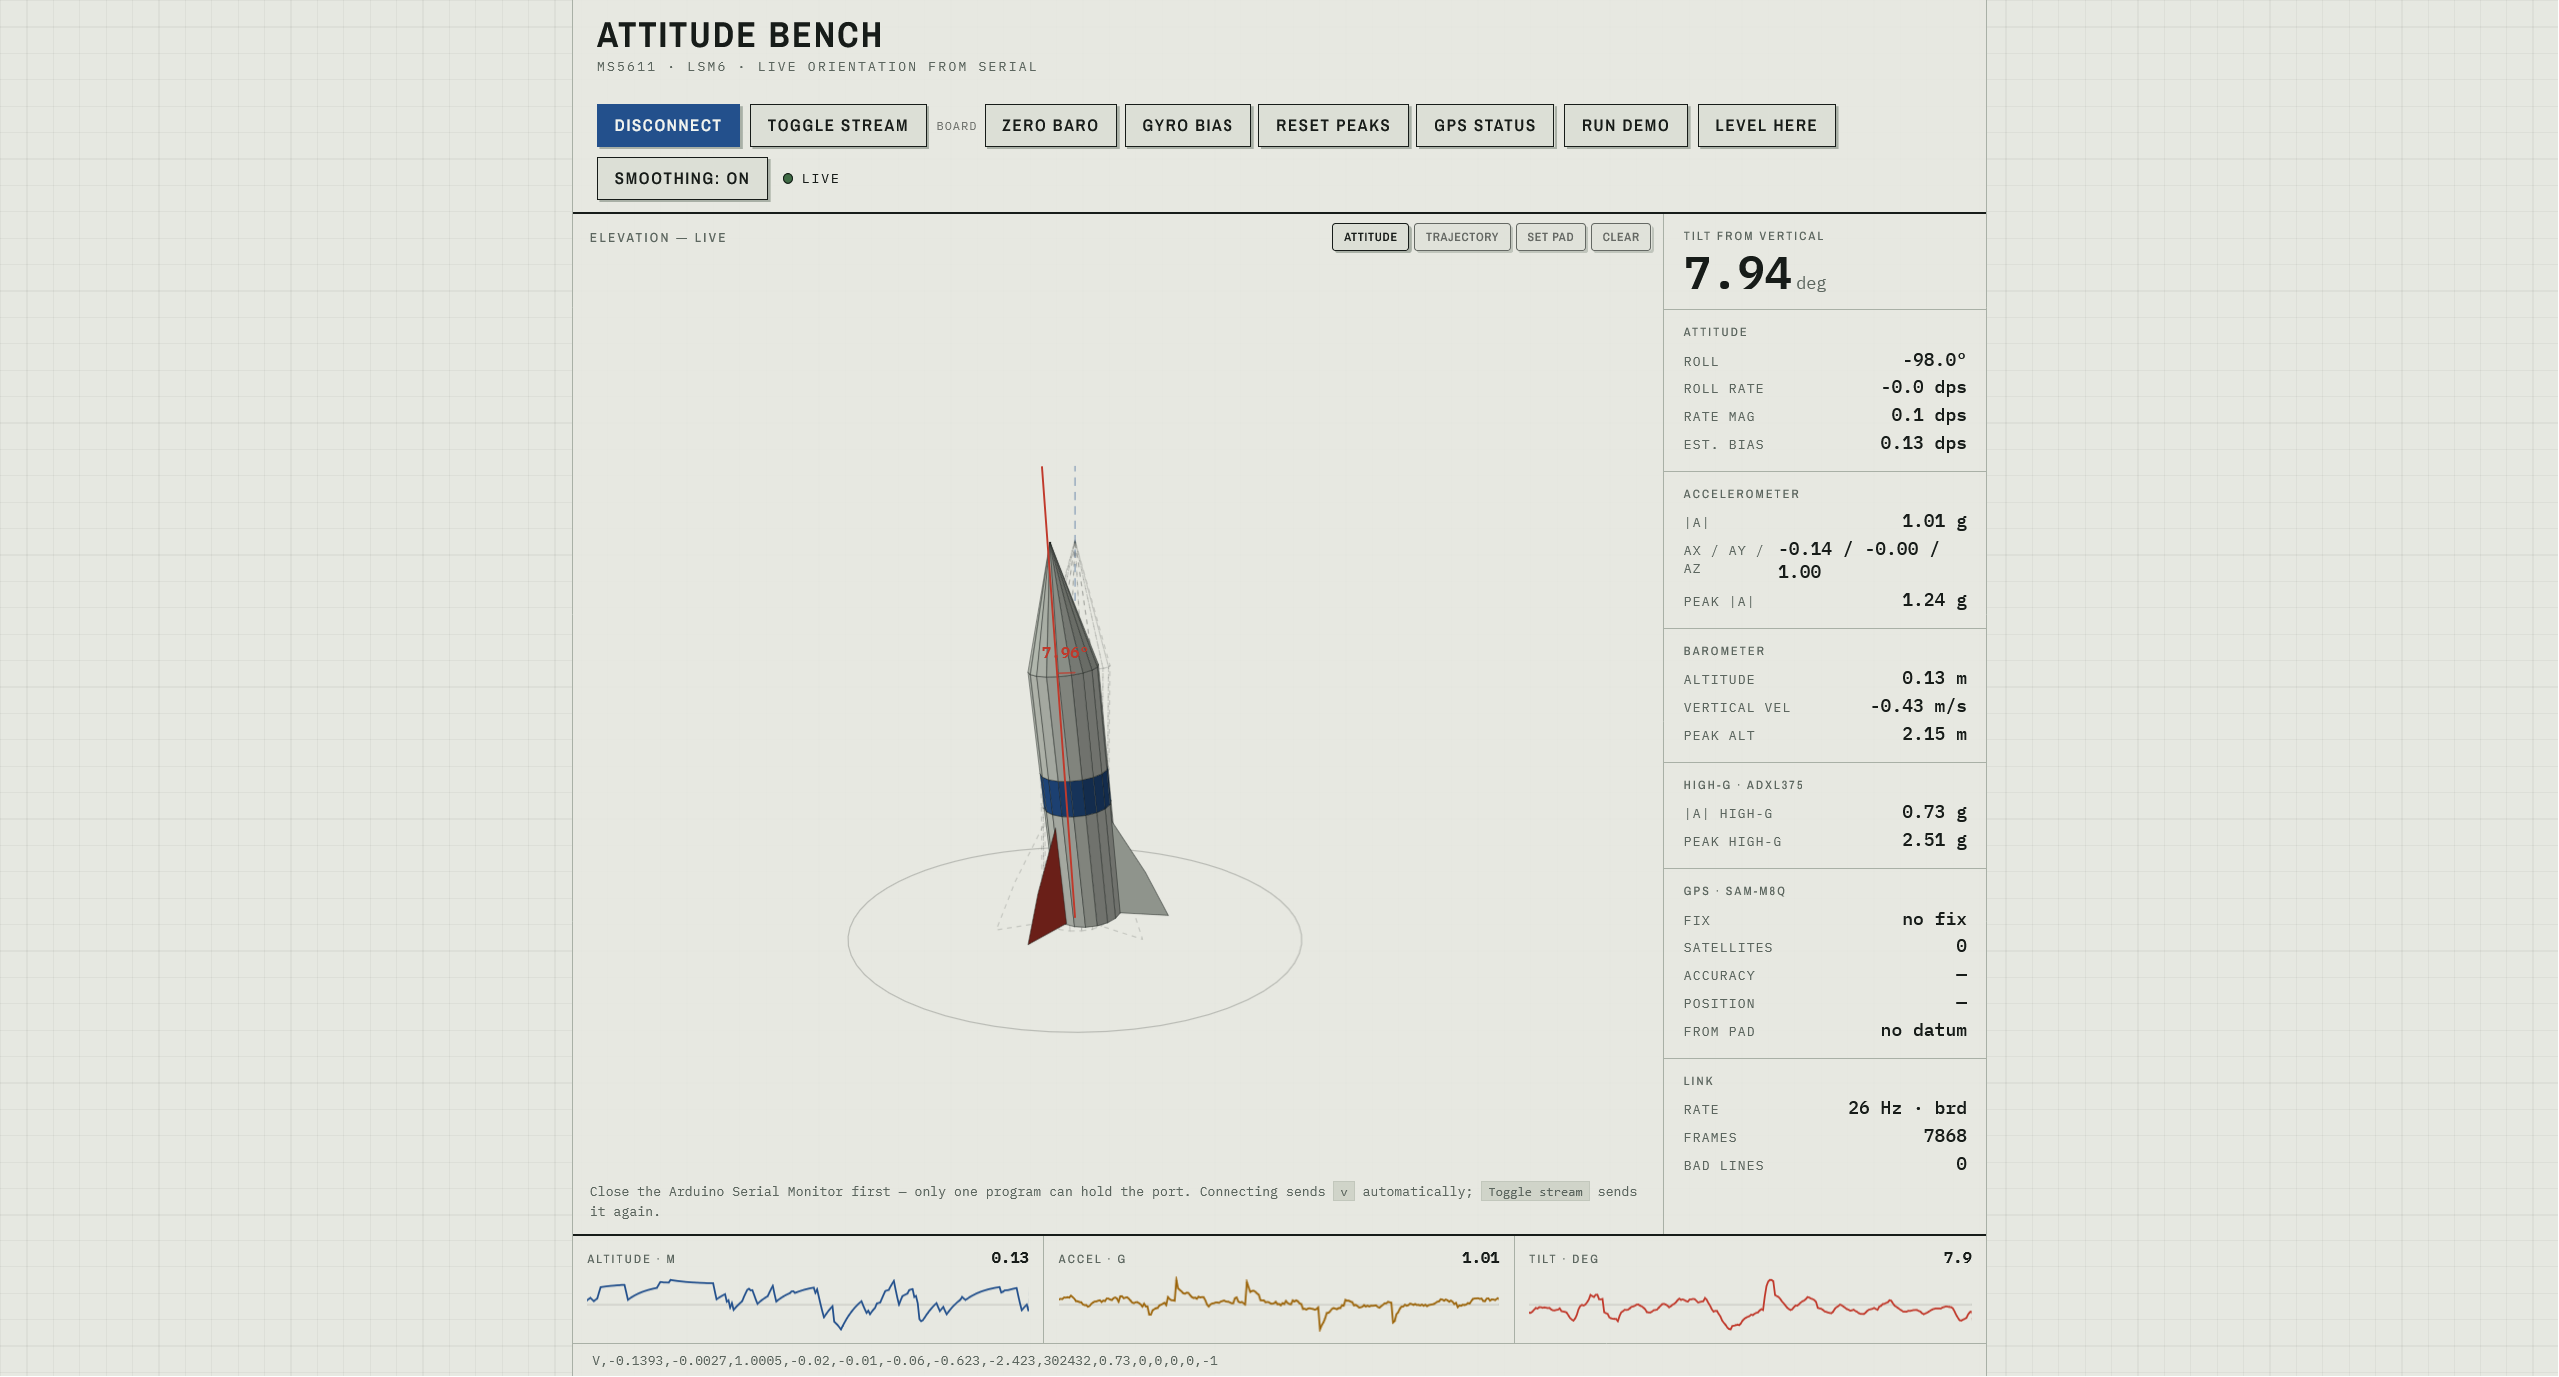
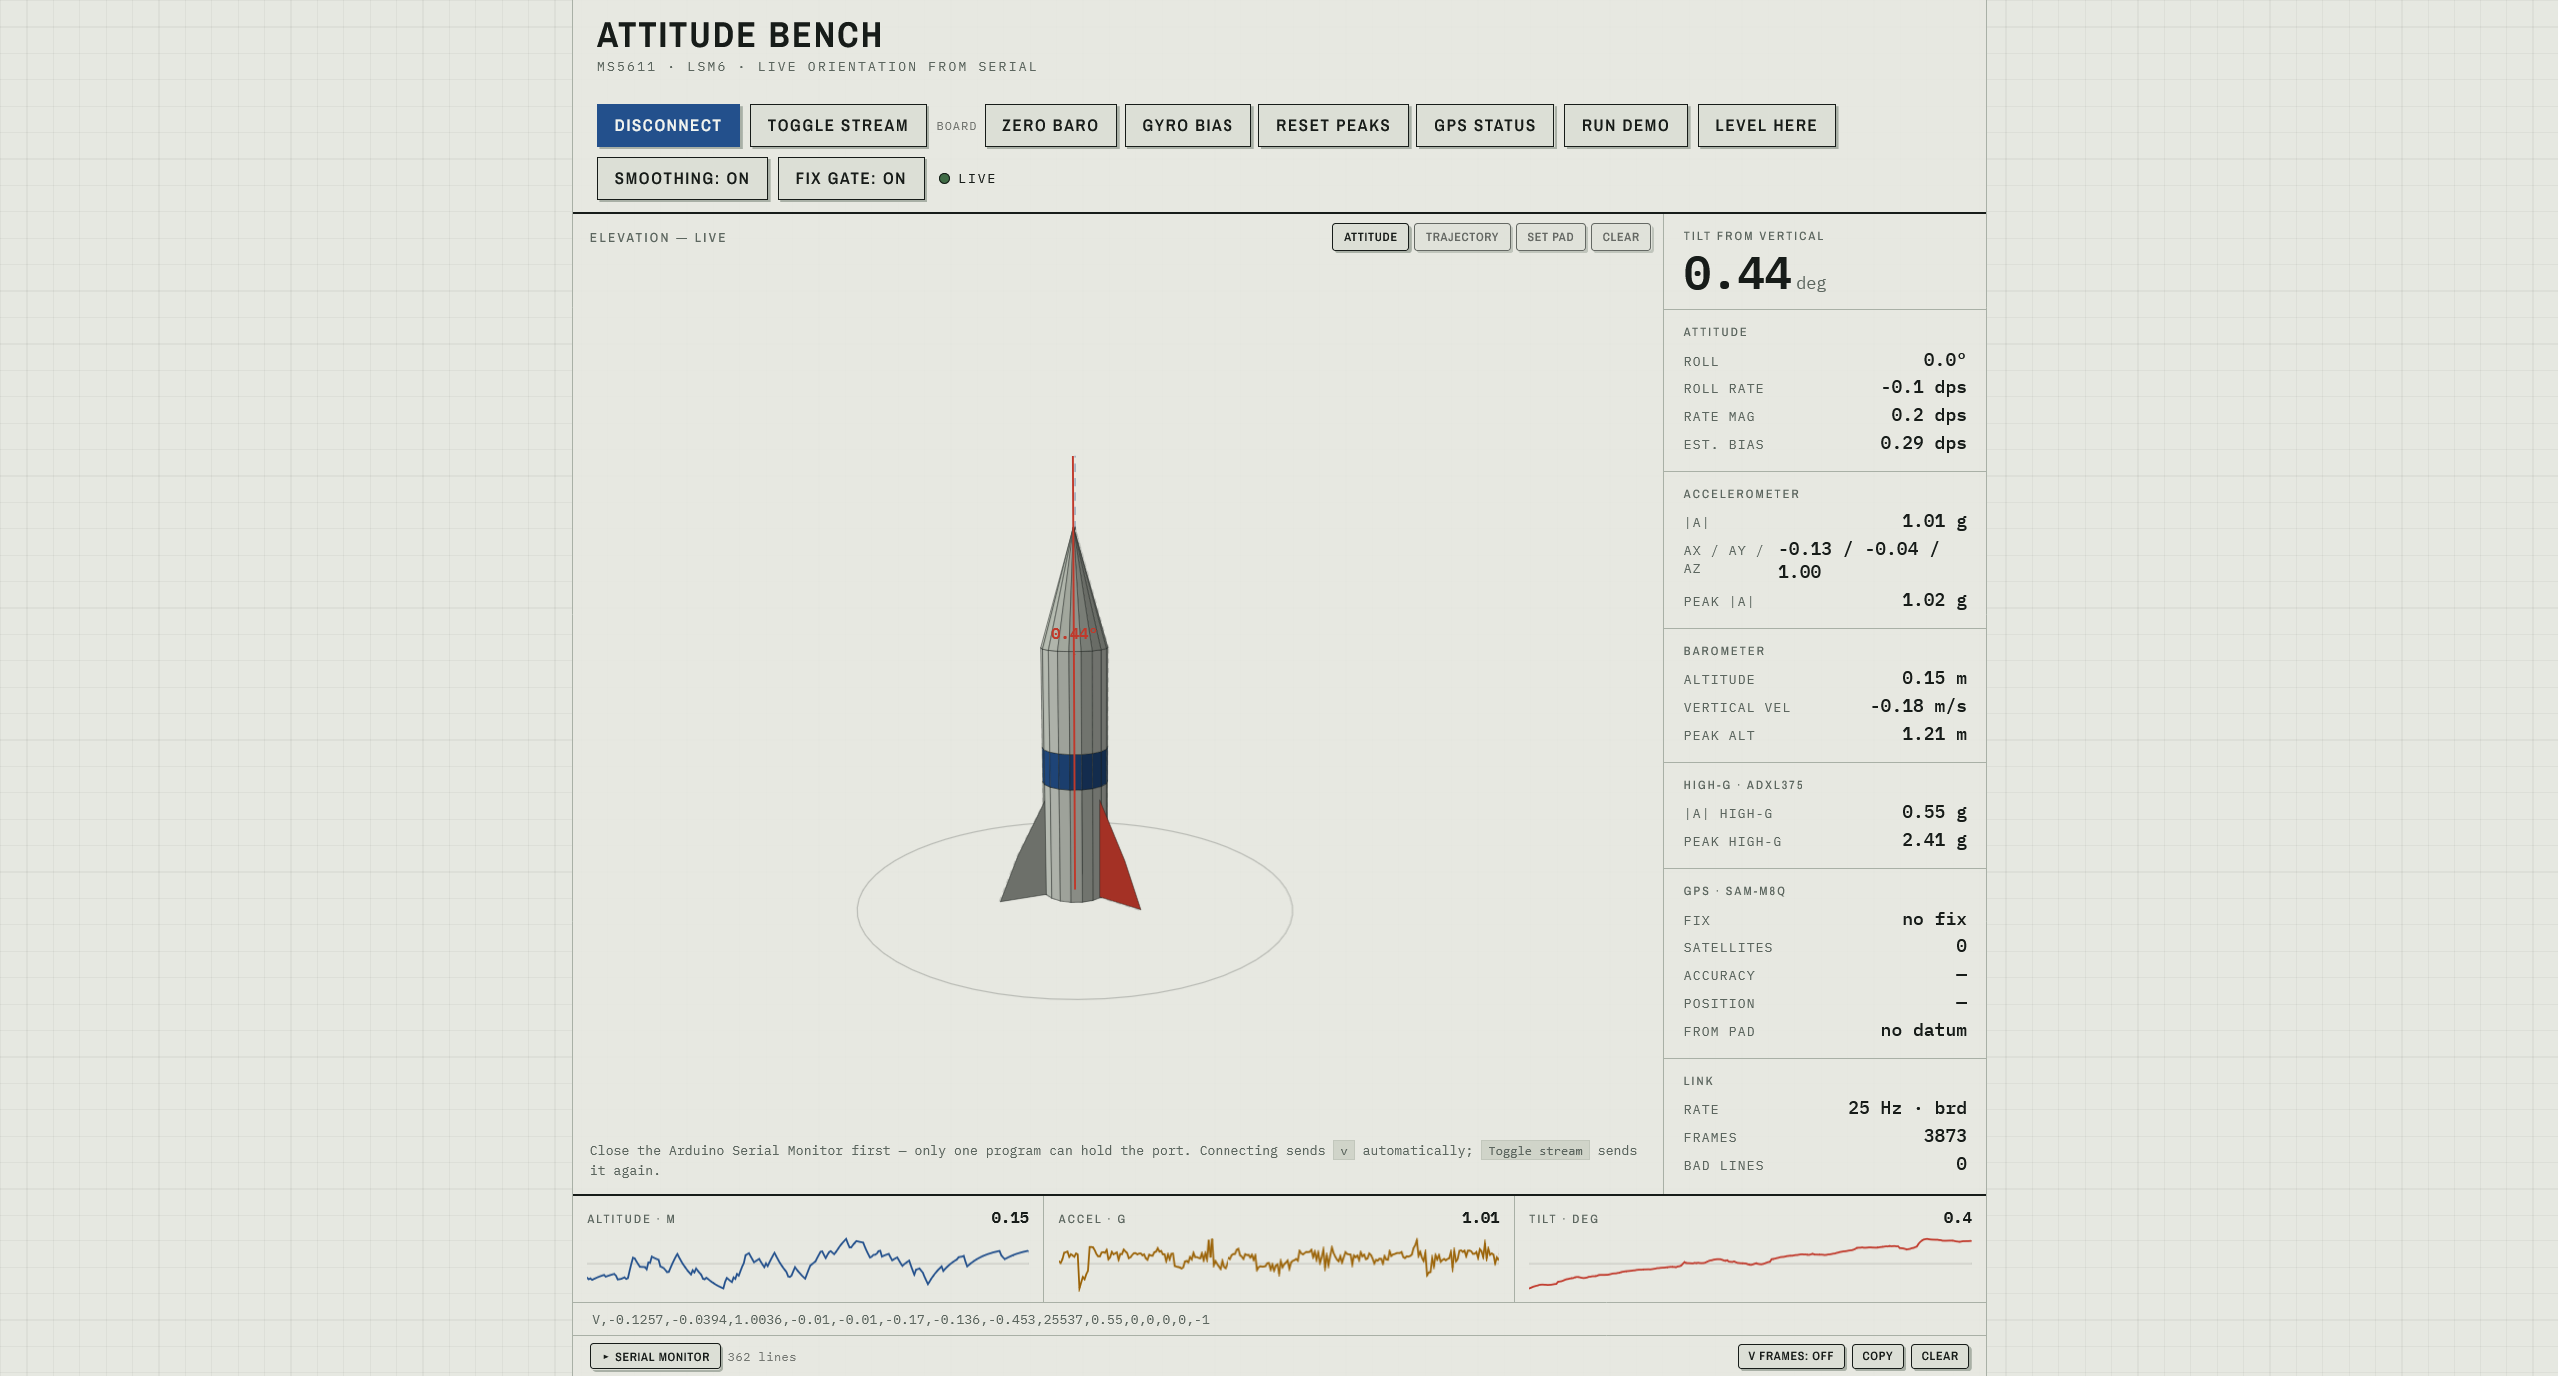
Refresh the attitude viewer screenshot for v0.2.1 (#6)
The committed image predated this release, so it showed neither the `Fix gate`
toggle, the `ACCURACY` readout, nor the serial monitor. Replaced with a capture
of the release as built.

Captions in the README and §6.7 updated to match the new figures — tilt 0.44°,
high-g peak 2.41 g, 25 Hz across 3873 frames, and `hg = 0.55` in the raw
telemetry line. A caption that misdescribes its own image is worse than none.

Claude-Session: https://claude.ai/code/session_01UqmvUCN7NhCAhsydkNNnvk

diff --git a/README.md b/README.md
@@ -7,14 +7,16 @@ Mapúa University (Intramuros).
 
 ![The attitude viewer running live off the flight computer over USB: 3D vehicle
 model with tilt protractor, numeric readouts for attitude, accelerometer,
-barometer, high-g and GPS, and strip charts for altitude, acceleration and
-tilt](docs/images/viewer-attitude.png)
+barometer, high-g and GPS, strip charts for altitude, acceleration and tilt,
+and a collapsed serial monitor along the bottom](docs/images/viewer-attitude.png)
 
-*The viewer on real hardware. Tilt 7.94°, 1.01 g at rest, high-g peak 2.51 g,
-26 Hz on the board's own clock across 7868 frames with zero bad lines. The GPS
-block reads `no fix` and `no datum` — indoors on a bench that is the correct
+*The viewer on real hardware. Tilt 0.44°, 1.01 g at rest, high-g peak 2.41 g,
+25 Hz on the board's own clock across 3873 frames with zero bad lines. The GPS
+block reads `no fix`, `no datum` — indoors on a bench that is the correct
 answer, and the pad datum is deliberately withheld rather than taken from a bad
-fix (§4.5).*
+fix (§4.5). The `Fix gate` toggle beside `Smoothing` relaxes that bar when a
+bench fix is all you have, and the serial monitor is collapsed along the
+bottom.*
 
 ---
 

diff --git a/avionics_documentation.md b/avionics_documentation.md
@@ -845,14 +845,14 @@ readouts by roughly 2.6× on tilt, 3.1× on |a| and 4.7× on altitude, at a cost
 of 0.32 s and 1.12 s respectively to reach 90% of a step.
 
 ![The attitude view: 3D rocket model with a tilt protractor and reference
-axis, a column of numeric readouts, and three strip
-charts](docs/images/viewer-attitude.png)
+axis, a column of numeric readouts, three strip charts, and a collapsed serial
+monitor](docs/images/viewer-attitude.png)
 
 *The attitude view driven live over USB. The GPS block shows the pad-datum gate
 holding: with no fix, `FROM PAD` reads `no datum` rather than a fabricated
-distance. The raw telemetry line along the bottom is the §6.6 format, with
-`hg = 0.73` and the trailing `0,0,0,0,-1` marking no fix and no accuracy
-estimate.*
+distance, and `ACCURACY` reads `—` because there is no estimate to report. The
+raw telemetry line along the bottom is the §6.6 format, with `hg = 0.55` and a
+trailing `0,0,0,0,-1` marking no fix and no accuracy estimate.*
 
 **Two stage views, one canvas.** The stage switches between **Attitude** —
 the 3D model, tilt protractor and reference axis — and **Trajectory**, which

diff --git a/CHANGELOG.md b/CHANGELOG.md
@@ -52,6 +52,13 @@ Format loosely follows [Keep a Changelog](https://keepachangelog.com/).
 does not launder a weak fix, a legacy 14-field frame still datuming on
 satellite count, and the console's filtering, blank-line handling and cap.
 
+### Docs
+
+`docs/images/viewer-attitude.png` refreshed to show the release as built — the
+`Fix gate` toggle, the `ACCURACY` readout and the collapsed serial monitor.
+Captions in the README and §6.7 updated to match its figures, since a caption
+that misdescribes its own image is worse than none.
+
 ---
 
 ## [0.2.0] — 2026-09-09
